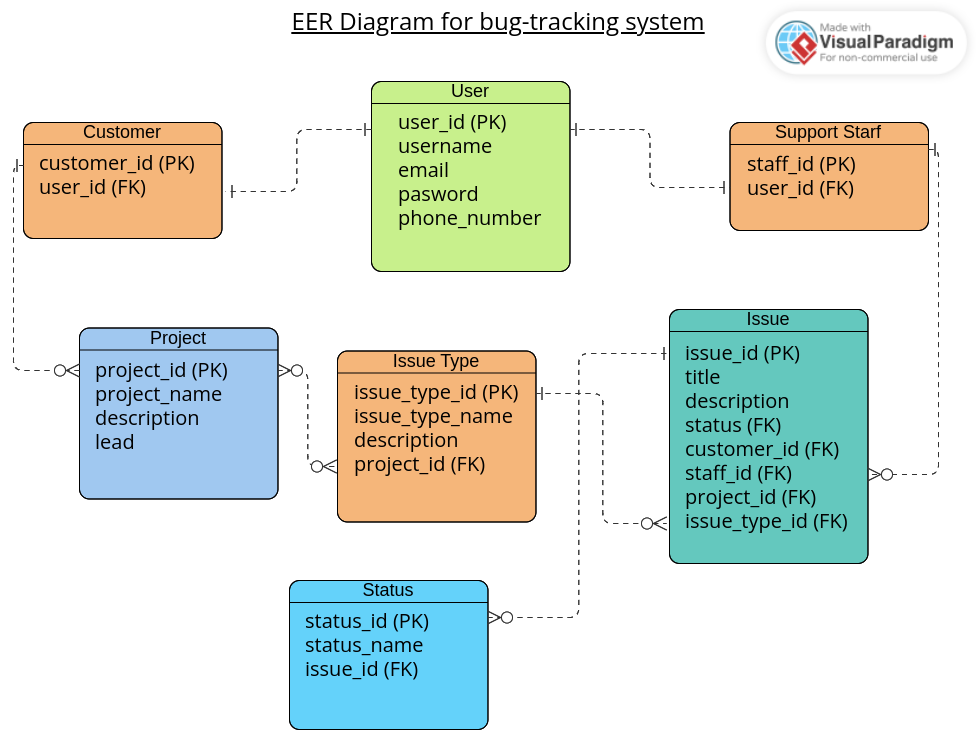
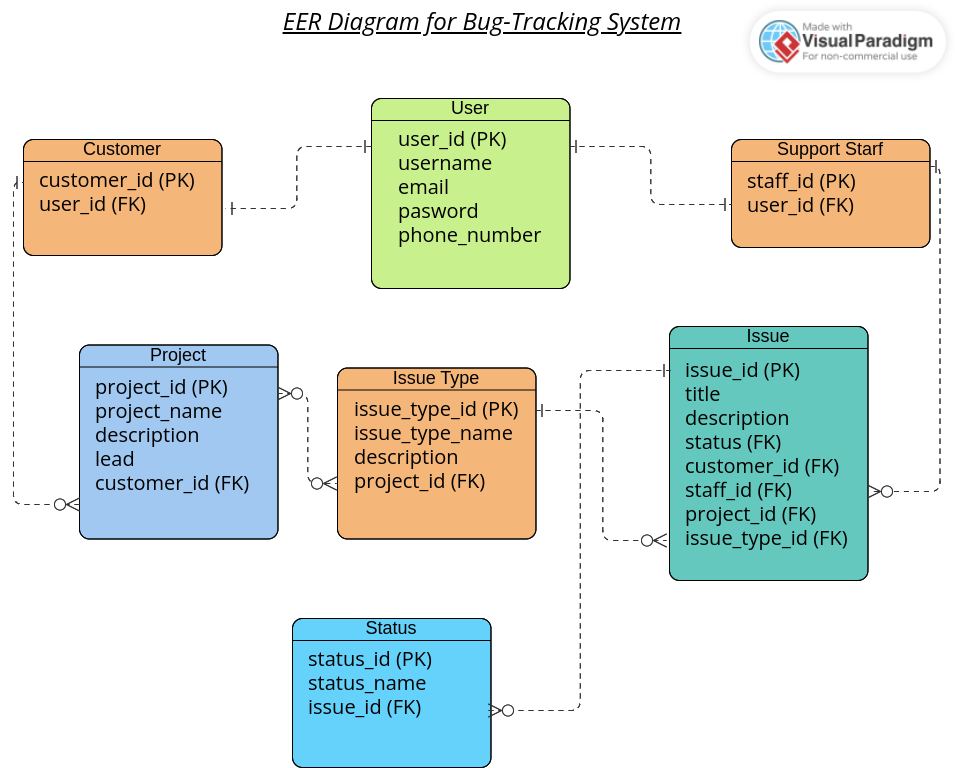
I added all entity for the model

diff --git a/Task_02/src/main/java/com/entgra/Task_02/Task02Application.java b/Task_02/src/main/java/com/entgra/Task_02/Task02Application.java
@@ -3,11 +3,18 @@ package com.entgra.Task_02;
 import org.springframework.boot.SpringApplication;
 import org.springframework.boot.autoconfigure.SpringBootApplication;
 
+
 @SpringBootApplication
+
 public class Task02Application {
 
 	public static void main(String[] args) {
+
 		SpringApplication.run(Task02Application.class, args);
 	}
+//	public Docket apis(){
+//		return new Docket(DocumentationType.SWAGGER_2).select().apis(RequestHandlerSelectors.basePackage("com.entgra")).build();
+//	}
 
 }
+

diff --git a/Task_02/src/main/java/com/entgra/Task_02/model/Issue.java b/Task_02/src/main/java/com/entgra/Task_02/model/Issue.java
@@ -1,0 +1,18 @@
+package com.entgra.Task_02.model;
+
+import lombok.Data;
+
+import javax.persistence.Entity;
+import javax.persistence.Id;
+@Data
+@Entity
+public class Issue {
+    @Id
+    private Integer issue_id;
+    private String title;
+    private String description;
+    private Integer customer_id;
+    private Integer staff_id;
+    private Integer project_type_id;
+    private Integer issue_type_id;
+}

diff --git a/Task_02/src/main/java/com/entgra/Task_02/model/User.java b/Task_02/src/main/java/com/entgra/Task_02/model/User.java
@@ -1,0 +1,16 @@
+package com.entgra.Task_02.model;
+
+import lombok.Data;
+
+import javax.persistence.Entity;
+import javax.persistence.Id;
+@Data
+@Entity
+public class User {
+    @Id
+    private Integer user_id;
+    private String username;
+    private String email;
+    private String password;
+    private String phone_number;
+}

diff --git a/Task_02/src/main/java/com/entgra/Task_02/model/IssueType.java b/Task_02/src/main/java/com/entgra/Task_02/model/IssueType.java
@@ -1,0 +1,16 @@
+package com.entgra.Task_02.model;
+
+import lombok.Data;
+
+import javax.persistence.Entity;
+import javax.persistence.Id;
+@Data
+@Entity
+public class IssueType {
+    @Id
+    private Integer issue_type_id;
+    private String issue_type_name;
+    private String description;
+    private Integer project_id;
+
+}

diff --git a/Task_02/src/main/java/com/entgra/Task_02/model/Project.java b/Task_02/src/main/java/com/entgra/Task_02/model/Project.java
@@ -1,0 +1,15 @@
+package com.entgra.Task_02.model;
+
+import lombok.Data;
+
+import javax.persistence.Entity;
+import javax.persistence.Id;
+@Data
+@Entity
+public class Project {
+    @Id
+    private Integer project_id;
+    private String project_name;
+    private String description;
+    private String lead;
+}

diff --git a/Task_02/src/main/java/com/entgra/Task_02/model/Status.java b/Task_02/src/main/java/com/entgra/Task_02/model/Status.java
@@ -1,0 +1,15 @@
+package com.entgra.Task_02.model;
+
+import lombok.Data;
+
+import javax.persistence.Entity;
+import javax.persistence.Id;
+@Data
+@Entity
+public class Status {
+    @Id
+    private Integer status_id;
+    private String status_name;
+    private Integer issue_id;
+}
+

diff --git a/Task_02/src/main/java/com/entgra/Task_02/model/SupportStaff.java b/Task_02/src/main/java/com/entgra/Task_02/model/SupportStaff.java
@@ -1,0 +1,14 @@
+package com.entgra.Task_02.model;
+
+import lombok.Data;
+
+import javax.persistence.Entity;
+import javax.persistence.Id;
+@Data
+@Entity
+public class SupportStaff {
+    @Id
+    private Integer staff_id;
+    private Integer user_id;
+
+}

diff --git a/Task_02/src/main/java/com/entgra/Task_02/model/Customer.java b/Task_02/src/main/java/com/entgra/Task_02/model/Customer.java
@@ -1,0 +1,14 @@
+package com.entgra.Task_02.model;
+
+import lombok.Data;
+
+import javax.persistence.Entity;
+import javax.persistence.Id;
+@Data
+@Entity
+public class Customer {
+    @Id
+    private String customer_id;
+    private Integer user_id;
+
+}
